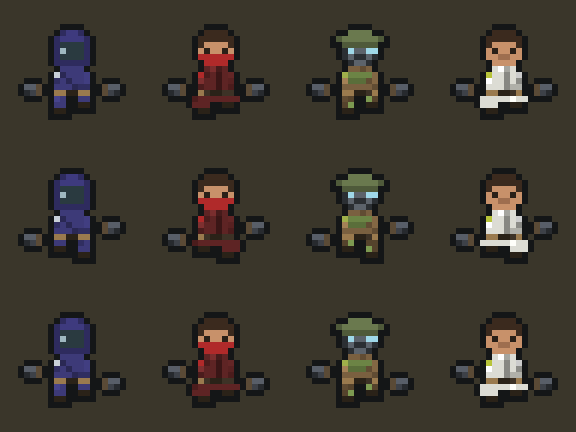
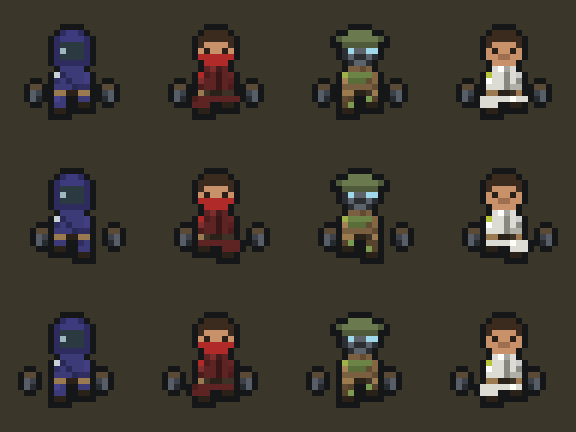
Empty hands hang fingers-down and sway sideways with the steps
Claude-Session: https://claude.ai/code/session_017RM7tWVFFchFrbQYy4G9ho

diff --git a/Assets/Scripts/GameCore/HeldWeapon.cs b/Assets/Scripts/GameCore/HeldWeapon.cs
@@ -373,12 +373,13 @@ namespace GameCore
         }
 
         /// <summary>Empty hands: where the two gloves float (centres, character px) at a walk's `phase` (radians) and `swing` (0 still ..
-        /// 1 walking): a pixel clear of the torso at the hips, rising and falling opposite ways a step at a time, snapped to pixels.</summary>
+        /// 1 walking): hanging fingers-down (HeldWeaponView turns them) a pixel clear of the torso at the hips, both swaying a pixel
+        /// to one side then the other with the steps, snapped to pixels.</summary>
         public static (float rx, float ry, float lx, float ly) FreeHands(float phase, float swing)
         {
             float a = Mathf.Sin(phase) * swing;
-            float dy = Mathf.Round(1.4f * a), dx = Mathf.Round(0.4f * a);
-            return (14.5f + dx, 11f - dy, 1.5f - dx, 11f + dy);
+            float dx = Mathf.Round(1.2f * a);                       // Yan: "pointing down and swinging a little to the sides" - no bob
+            return (14f + dx, 11.5f, 2f + dx, 11.5f);
         }
 
         /// <summary>Melee 3: the body's frame through a swing - gathered (half crouch) on the wind-up, a charge, a throw's lift and
@@ -837,8 +838,8 @@ namespace GameCore
                 _stepPhase += moved * Mathf.PI * 2f / StrideTiles;
                 _swing = Mathf.MoveTowards(_swing, walking, dt * 4f);
                 var (rx, ry, lx, ly) = HeldPoseMath.FreeHands(_stepPhase, _swing);
-                _grip.transform.localPosition = Local(rx, ry); _grip.transform.localRotation = Quaternion.identity;
-                _support.transform.localPosition = Local(lx, ly);
+                _grip.transform.localPosition = Local(rx, ry); _grip.transform.localRotation = Quaternion.Euler(0f, 0f, -90f);   // hanging, fingers down
+                _support.transform.localPosition = Local(lx, ly); _support.transform.localRotation = Quaternion.Euler(0f, 0f, 90f);
                 _g = null;
                 return;
             }
@@ -941,6 +942,7 @@ namespace GameCore
             _grip.transform.localPosition = Local(f.GripX, f.GripY);
             _grip.transform.localRotation = Quaternion.Euler(0f, 0f, f.HandDeg);
             _support.gameObject.SetActive(f.HasSupport);
+            _support.transform.localRotation = Quaternion.identity;               // (the empty hands hang turned)
             if (f.HasSupport) _support.transform.localPosition = Local(f.SupX, f.SupY);
             if (_w2?.Db != null && cat != "melee")
             {

diff --git a/ArtSource/WORK_LOG.md b/ArtSource/WORK_LOG.md
@@ -4347,3 +4347,6 @@ the edges? After that's done try rendering the fight". Mutant parries and co-op 
   easing back to still when you stop (`HeldPoseMath.FreeHands`; HeldWeaponView reads the walk from how far the body moved, a full
   swing per 1.2 tiles). Preview: `maps/renders/hands/empty_hands_walk.gif` (drawn with the same numbers; not a harness render).
   Not checked in Unity.
+- Empty hands b (Yan: "they're pointing to the sides and swinging up and down instead of pointing down and swinging a little to
+  the sides, seems like they're dancing"): the gloves hang turned fingers-down (grip -90, support +90; the support glove's turn is
+  reset when a weapon is out) at a fixed height and sway a pixel to one side, then the other, together with the steps.
